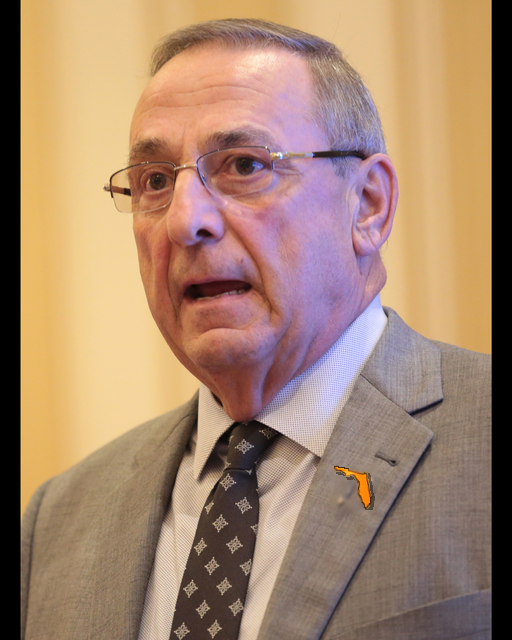
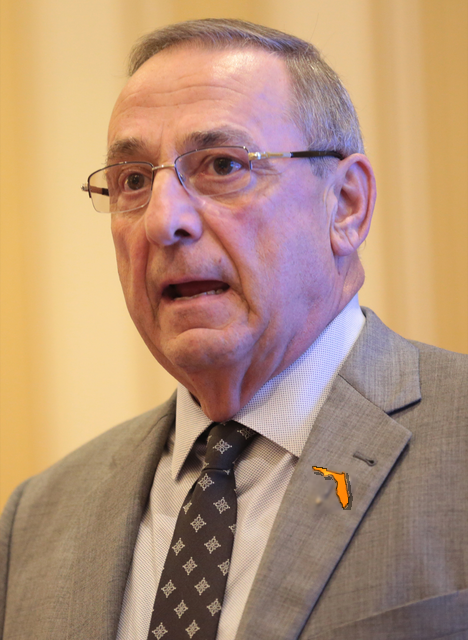
Add files via upload

diff --git a/index.html b/index.html
@@ -122,6 +122,8 @@
   .dossier-img {
     border: 3px solid #d44a2e;
     box-shadow: 0 0 10px rgba(212,74,46,0.4);
+    object-fit: cover;
+    object-position: center 20%;
   }
 
   .dossier-info {
@@ -583,7 +585,7 @@ function renderTitleScreen() {
       <div class="globe-bar"></div>
 
       <div class="landing-photo">
-        <img src="${PORTRAIT_SRC}" class="dossier-img" width="320" height="400" alt="Paul LePage">
+        <img src="${PORTRAIT_SRC}" class="dossier-img" width="300" height="410" alt="Paul LePage">
       </div>
 
       <div class="landing-buttons">
@@ -629,7 +631,7 @@ function renderRound() {
       <div class="panel narrow">
         <div class="panel-label">SUBJECT</div>
         <div class="dossier">
-          <img src="${ROUND_PORTRAITS[currentRound]}" class="dossier-img" width="150" height="188" alt="Subject">
+          <img src="${ROUND_PORTRAITS[currentRound]}" class="dossier-img" width="130" height="188" alt="Subject">
           <div class="dossier-info">
             NAME: <span class="val">LePAGE, PAUL</span><br>
             SEEKING: <span class="val">ME CD-2 SEAT</span><br>
@@ -738,7 +740,7 @@ function renderEndScreen() {
         <div class="panel-label">CASE CLOSED</div>
         <div class="dossier">
           <div class="wanted-stamp" style="color:#1a6b4a;">FOUND</div>
-          <img src="${END_PORTRAIT}" class="dossier-img" width="400" height="500" alt="FOUND" style="border-color:#1a6b4a; box-shadow: 0 0 10px rgba(26,107,74,0.5); display:block; margin:0 auto;">
+          <img src="${END_PORTRAIT}" class="dossier-img" width="340" height="500" alt="FOUND" style="border-color:#1a6b4a; box-shadow: 0 0 10px rgba(26,107,74,0.5); display:block; margin:0 auto;">
           <div class="dossier-info">
             NAME: <span class="val">LePAGE, PAUL</span><br>
             LOCATED IN: <span class="val">FLORIDA</span><br>
